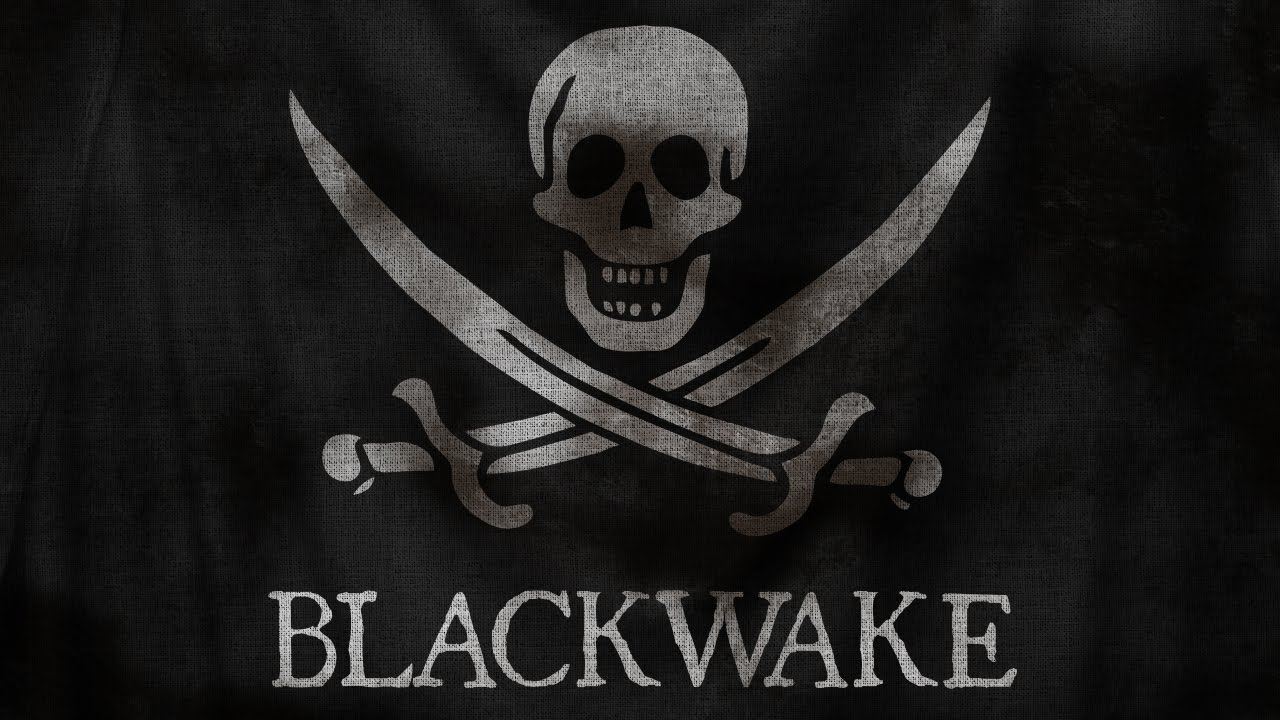
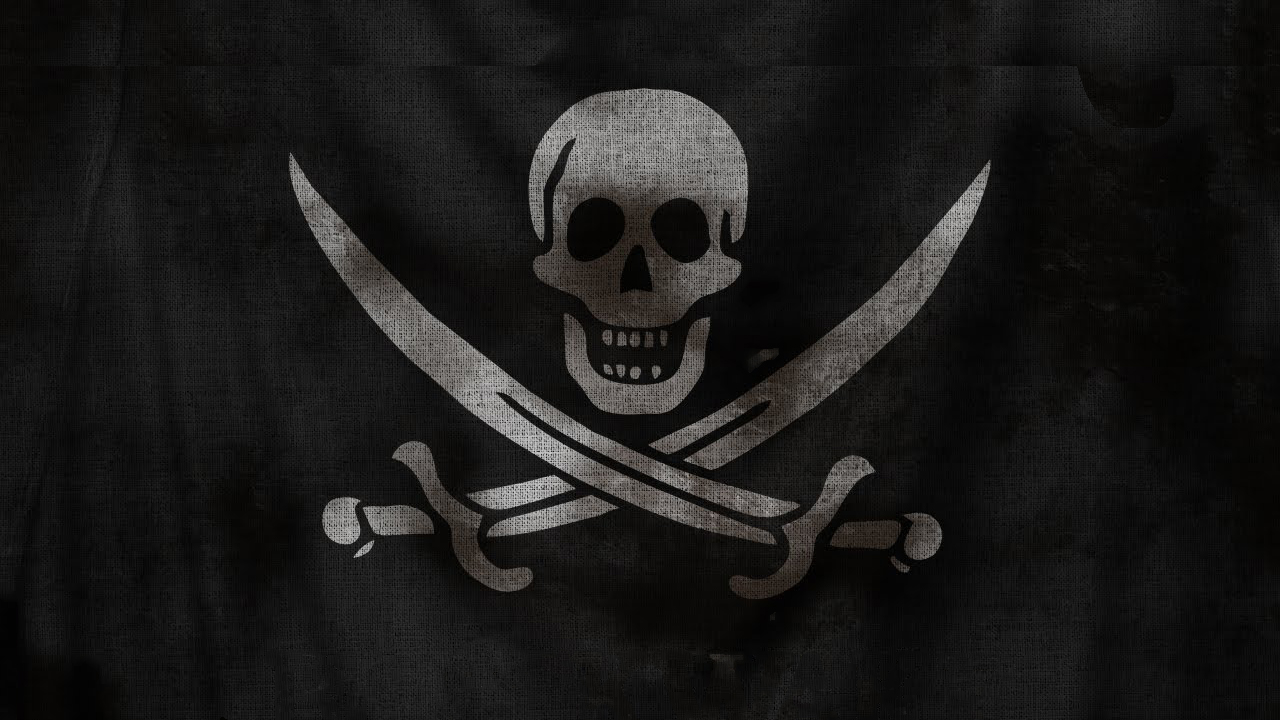
Ø∏

Changed region(s): [[0.2188, 0.0306, 0.8125, 0.9778], [0.7812, 0.0917, 0.8125, 0.1222], [0.1875, 0.9778, 0.2188, 1.0]]

diff --git a/index.html b/index.html
@@ -89,7 +89,7 @@
 
 					// camera
 
-					camera = new THREE.PerspectiveCamera(12, window.innerWidth / window.innerHeight, 1, 10000);
+					camera = new THREE.PerspectiveCamera(30, window.innerWidth / window.innerHeight, 1, 10000);
 					camera.position.y = 50;
 					camera.position.z = 1600;
 					scene.add(camera);
